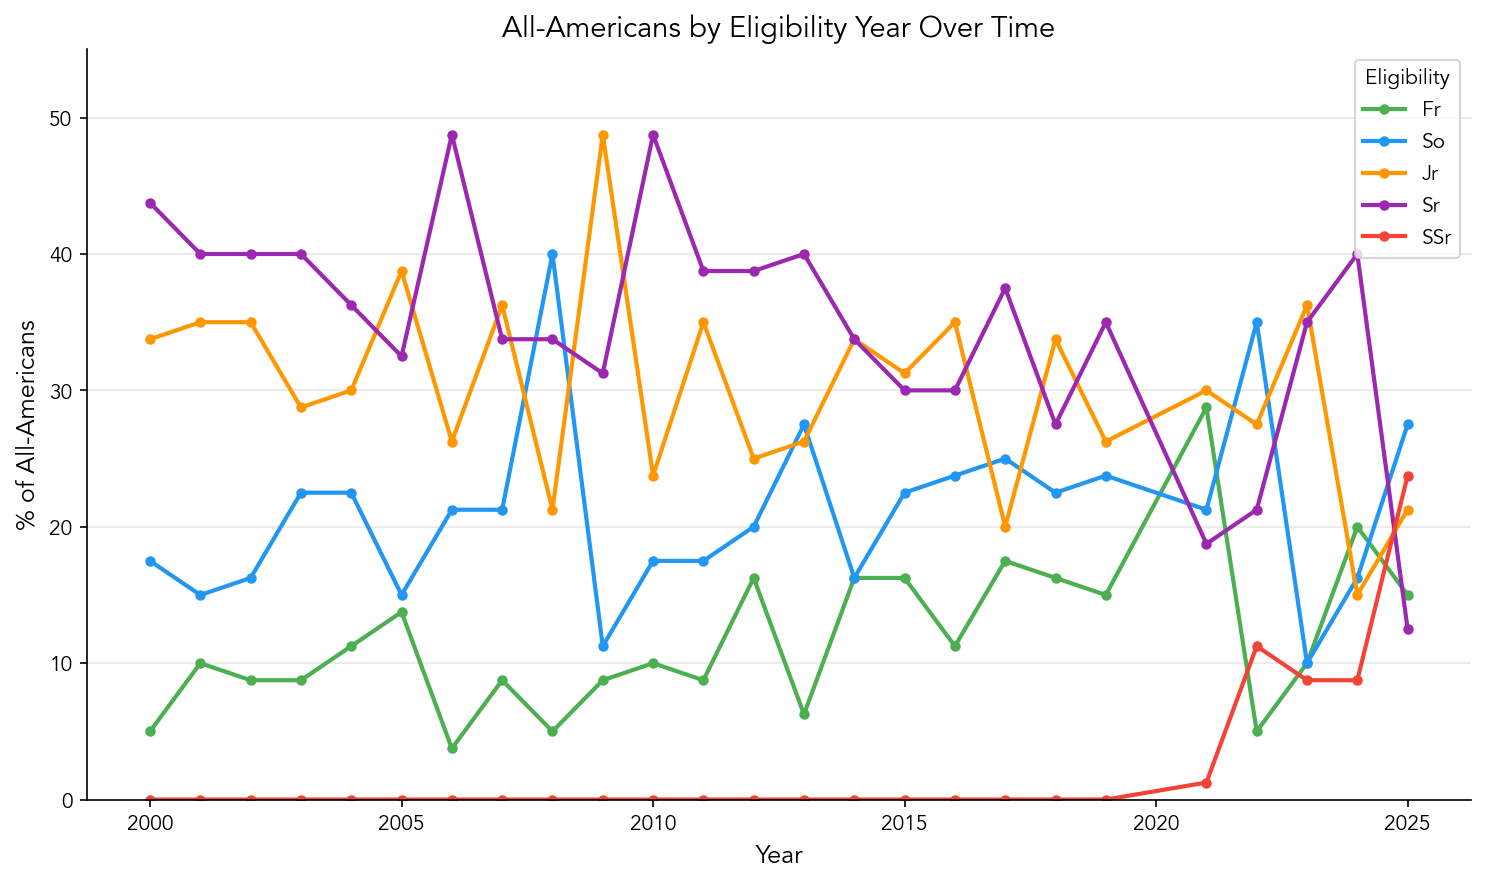
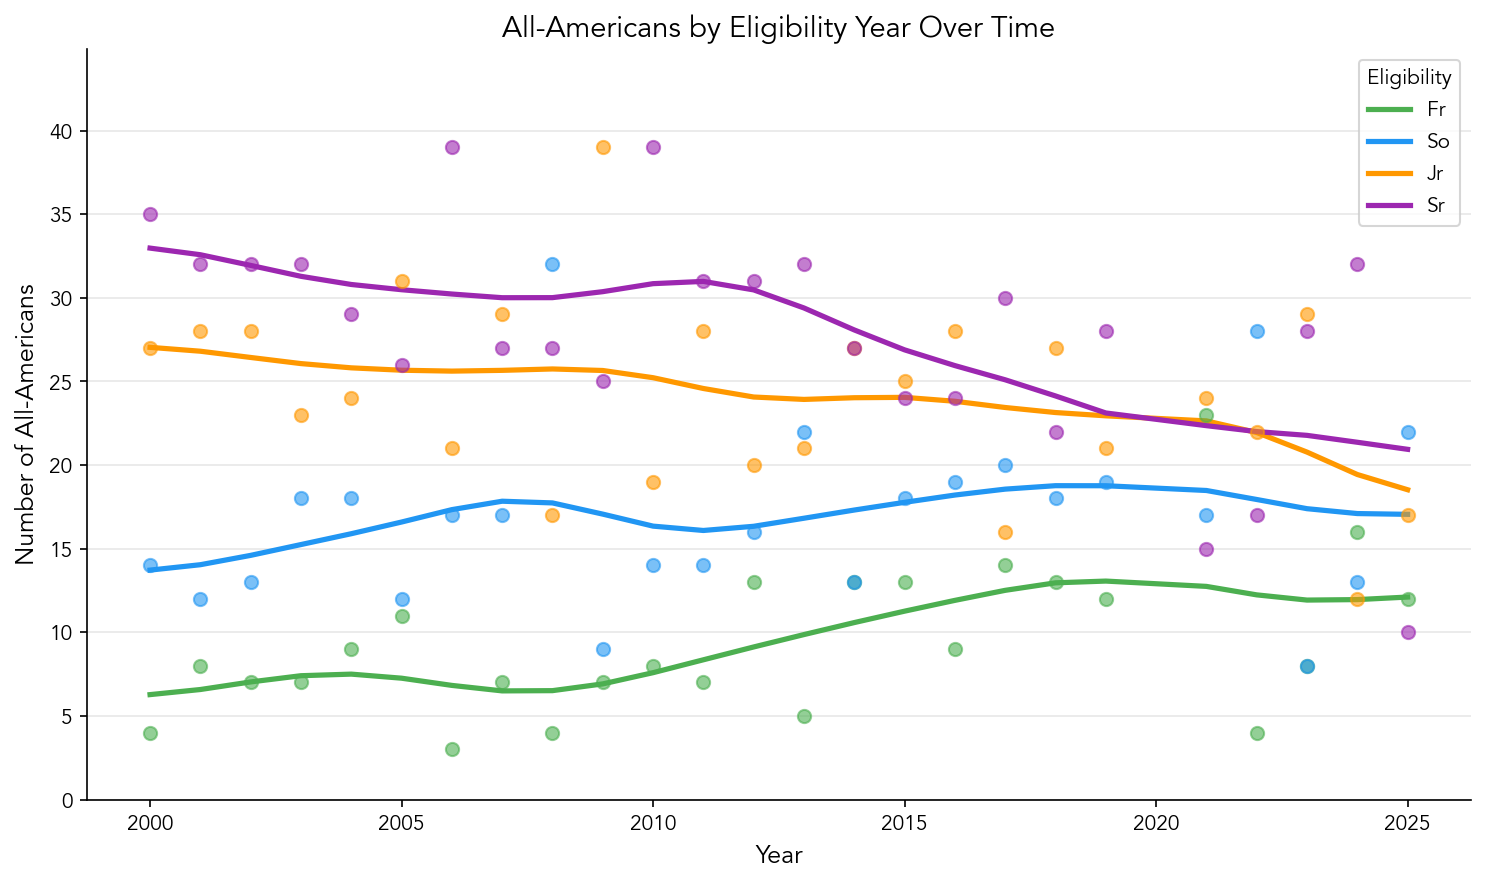
Update trend charts: use counts with smoothed trend lines

diff --git a/notebooks/analysis.py b/notebooks/analysis.py
@@ -234,8 +234,10 @@ print(f"Saved: {chart_path}")
 print(f"Saved: {site_chart_path}")
 
 # ==============================================================================
-# CHART 3: All-Americans by Eligibility Year - Trend Over Time
+# CHART 3: All-Americans by Eligibility Year - Trend Over Time (Counts)
 # ==============================================================================
+
+from scipy.ndimage import gaussian_filter1d
 
 # Pivot: count of AAs by year and eligibility
 aa_by_year_elig = df.pivot_table(
@@ -245,31 +247,42 @@ aa_by_year_elig = df.pivot_table(
     fill_value=0
 )
 
-# Calculate percentage of total AAs per year
-aa_pct_by_year = aa_by_year_elig.div(aa_by_year_elig.sum(axis=1), axis=0) * 100
-
-# Reorder columns
-plot_order = [e for e in ELIGIBILITY_ORDER if e in aa_pct_by_year.columns]
-aa_pct_by_year = aa_pct_by_year[plot_order]
+# Reorder columns (exclude SSr for cleaner main trend - too few data points)
+plot_order = [e for e in ["Fr", "So", "Jr", "Sr"] if e in aa_by_year_elig.columns]
+aa_counts = aa_by_year_elig[plot_order]
 
 fig, ax = plt.subplots(figsize=(10, 6))
 
 for elig in plot_order:
-    ax.plot(
-        aa_pct_by_year.index, 
-        aa_pct_by_year[elig],
+    years = aa_counts.index.values
+    counts = aa_counts[elig].values
+    
+    # Plot actual data points
+    ax.scatter(
+        years, 
+        counts,
         color=ELIGIBILITY_COLORS.get(elig, "#888888"),
-        linewidth=2,
-        marker="o",
-        markersize=4,
-        label=elig
+        s=40,
+        alpha=0.6,
+        zorder=3
+    )
+    
+    # Plot smoothed trend line (Gaussian smoothing)
+    smoothed = gaussian_filter1d(counts.astype(float), sigma=2)
+    ax.plot(
+        years, 
+        smoothed,
+        color=ELIGIBILITY_COLORS.get(elig, "#888888"),
+        linewidth=2.5,
+        label=elig,
+        zorder=2
     )
 
 ax.set_xlabel("Year", fontsize=12)
-ax.set_ylabel("% of All-Americans", fontsize=12)
+ax.set_ylabel("Number of All-Americans", fontsize=12)
 ax.set_title("All-Americans by Eligibility Year Over Time", fontsize=14, fontweight="bold")
 ax.legend(title="Eligibility", loc="upper right")
-ax.set_ylim(0, 55)
+ax.set_ylim(0, aa_counts.max().max() * 1.15)
 ax.spines["top"].set_visible(False)
 ax.spines["right"].set_visible(False)
 ax.grid(axis="y", alpha=0.3)
@@ -284,7 +297,7 @@ print(f"Saved: {chart_path}")
 print(f"Saved: {site_chart_path}")
 
 # ==============================================================================
-# CHART 4: National Champions by Eligibility Year - Trend Over Time
+# CHART 4: National Champions by Eligibility Year - Trend Over Time (Counts)
 # ==============================================================================
 
 # Pivot: count of NCs by year and eligibility
@@ -295,42 +308,43 @@ nc_by_year_elig = champions.pivot_table(
     fill_value=0
 )
 
-# Calculate percentage of total NCs per year
-nc_pct_by_year = nc_by_year_elig.div(nc_by_year_elig.sum(axis=1), axis=0) * 100
-
-# Reorder columns
-plot_order_nc = [e for e in ELIGIBILITY_ORDER if e in nc_pct_by_year.columns]
-nc_pct_by_year = nc_pct_by_year[plot_order_nc]
-
-# Calculate 3-year rolling average to smooth the noisy NC data
-nc_pct_smoothed = nc_pct_by_year.rolling(window=3, center=True, min_periods=1).mean()
+# Reorder columns (exclude SSr for cleaner main trend)
+plot_order_nc = [e for e in ["Fr", "So", "Jr", "Sr"] if e in nc_by_year_elig.columns]
+nc_counts = nc_by_year_elig[plot_order_nc]
 
 fig, ax = plt.subplots(figsize=(10, 6))
 
 for elig in plot_order_nc:
-    # Plot smoothed line (bold)
+    years = nc_counts.index.values
+    counts = nc_counts[elig].values
+    
+    # Plot actual data points
+    ax.scatter(
+        years, 
+        counts,
+        color=ELIGIBILITY_COLORS.get(elig, "#888888"),
+        s=40,
+        alpha=0.6,
+        zorder=3
+    )
+    
+    # Plot smoothed trend line (Gaussian smoothing with higher sigma for noisy NC data)
+    smoothed = gaussian_filter1d(counts.astype(float), sigma=2.5)
     ax.plot(
-        nc_pct_smoothed.index, 
-        nc_pct_smoothed[elig],
+        years, 
+        smoothed,
         color=ELIGIBILITY_COLORS.get(elig, "#888888"),
         linewidth=2.5,
-        label=elig
-    )
-    # Plot raw data points (lighter)
-    ax.scatter(
-        nc_pct_by_year.index, 
-        nc_pct_by_year[elig],
-        color=ELIGIBILITY_COLORS.get(elig, "#888888"),
-        s=20,
-        alpha=0.4
+        label=elig,
+        zorder=2
     )
 
 ax.set_xlabel("Year", fontsize=12)
-ax.set_ylabel("% of National Champions", fontsize=12)
-ax.set_title("National Champions by Eligibility Year Over Time\n(3-year rolling average, dots show actual)", 
-             fontsize=14, fontweight="bold")
+ax.set_ylabel("Number of National Champions", fontsize=12)
+ax.set_title("National Champions by Eligibility Year Over Time", fontsize=14, fontweight="bold")
 ax.legend(title="Eligibility", loc="upper right")
-ax.set_ylim(0, 80)
+ax.set_ylim(0, 10)
+ax.set_yticks(range(0, 11, 2))
 ax.spines["top"].set_visible(False)
 ax.spines["right"].set_visible(False)
 ax.grid(axis="y", alpha=0.3)

diff --git a/docs/report.md b/docs/report.md
@@ -61,14 +61,14 @@ Has the eligibility distribution changed over 25 years? These charts show how ea
 
 <figure>
 <img src="{{ site.baseurl }}/charts/aa_trend_by_eligibility.png" alt="Line chart showing All-Americans by eligibility year over time">
-<figcaption>Percentage of All-Americans by eligibility class, 2000–2025. Seniors consistently lead, but the gap has narrowed in recent years.</figcaption>
+<figcaption>All-American counts by eligibility class, 2000–2025. Dots show actual yearly counts; lines are smoothed trends.</figcaption>
 </figure>
 
 ### National Champions Trend
 
 <figure>
 <img src="{{ site.baseurl }}/charts/nc_trend_by_eligibility.png" alt="Line chart showing National Champions by eligibility year over time">
-<figcaption>Percentage of National Champions by eligibility class, 2000–2025. Lines show 3-year rolling average; dots show actual values. With only 10 champions per year, individual years are noisy.</figcaption>
+<figcaption>National Champion counts by eligibility class, 2000–2025. Dots show actual yearly counts; lines are smoothed trends.</figcaption>
 </figure>
 
 ## Methodology
